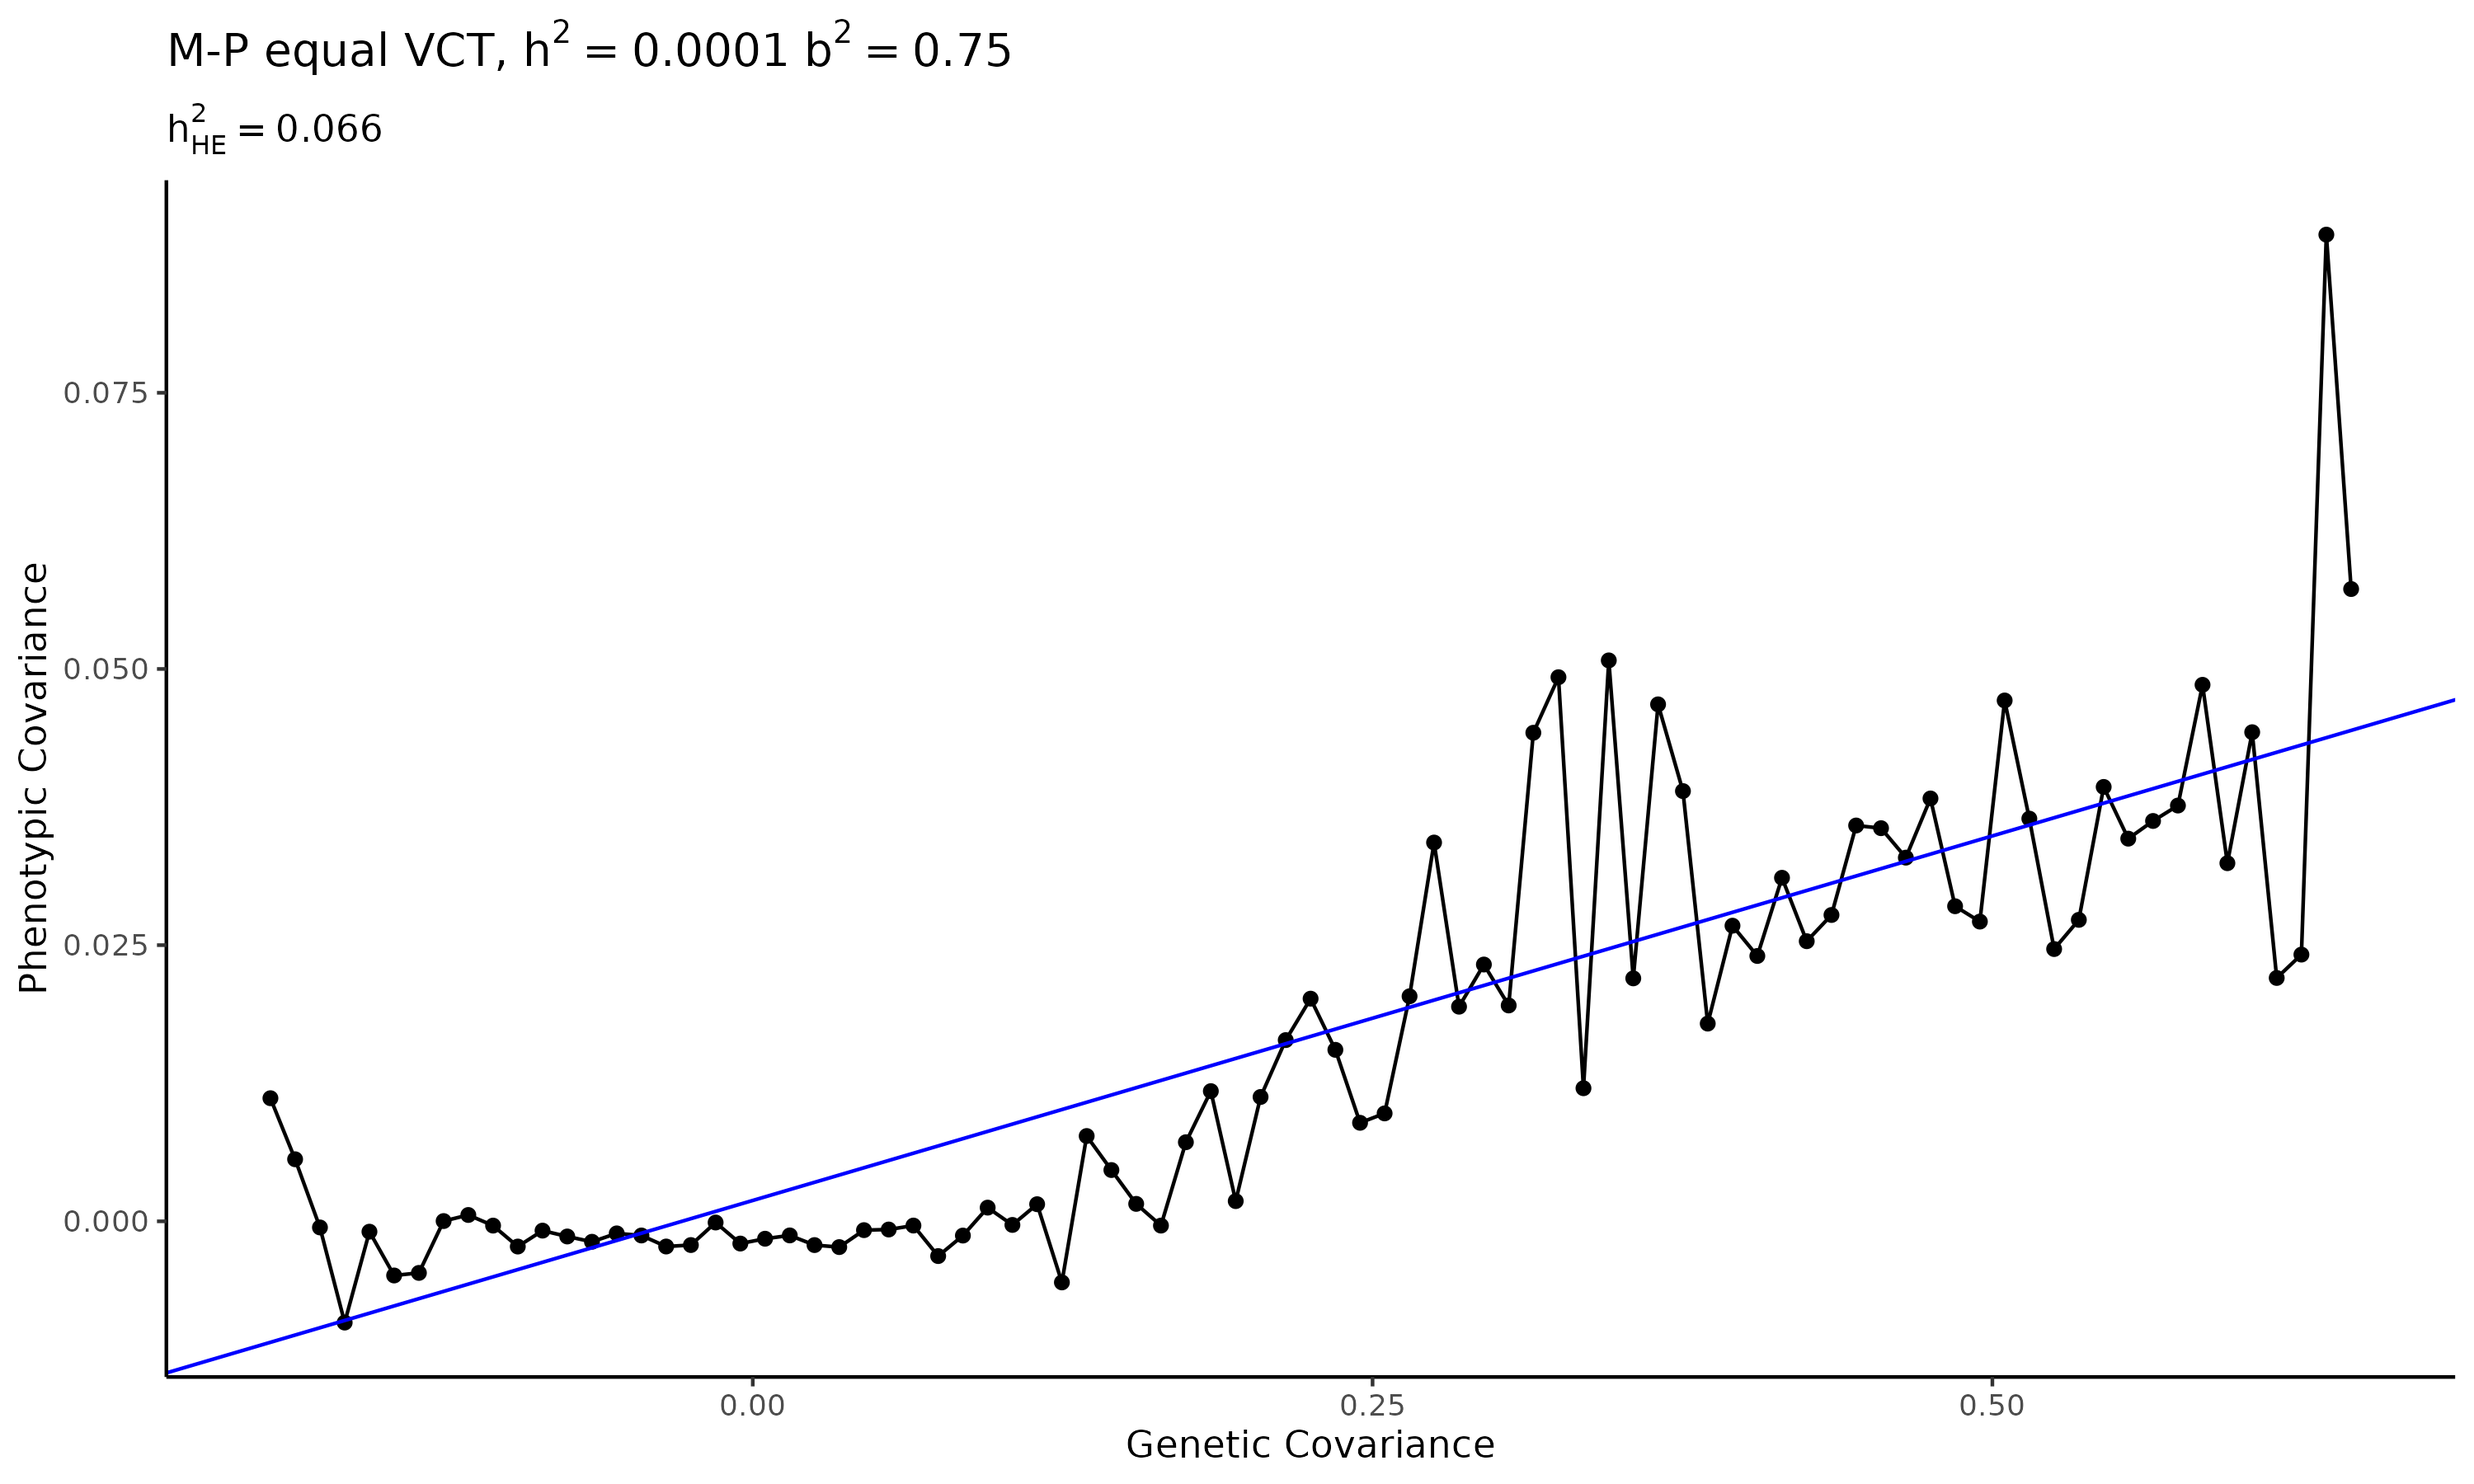
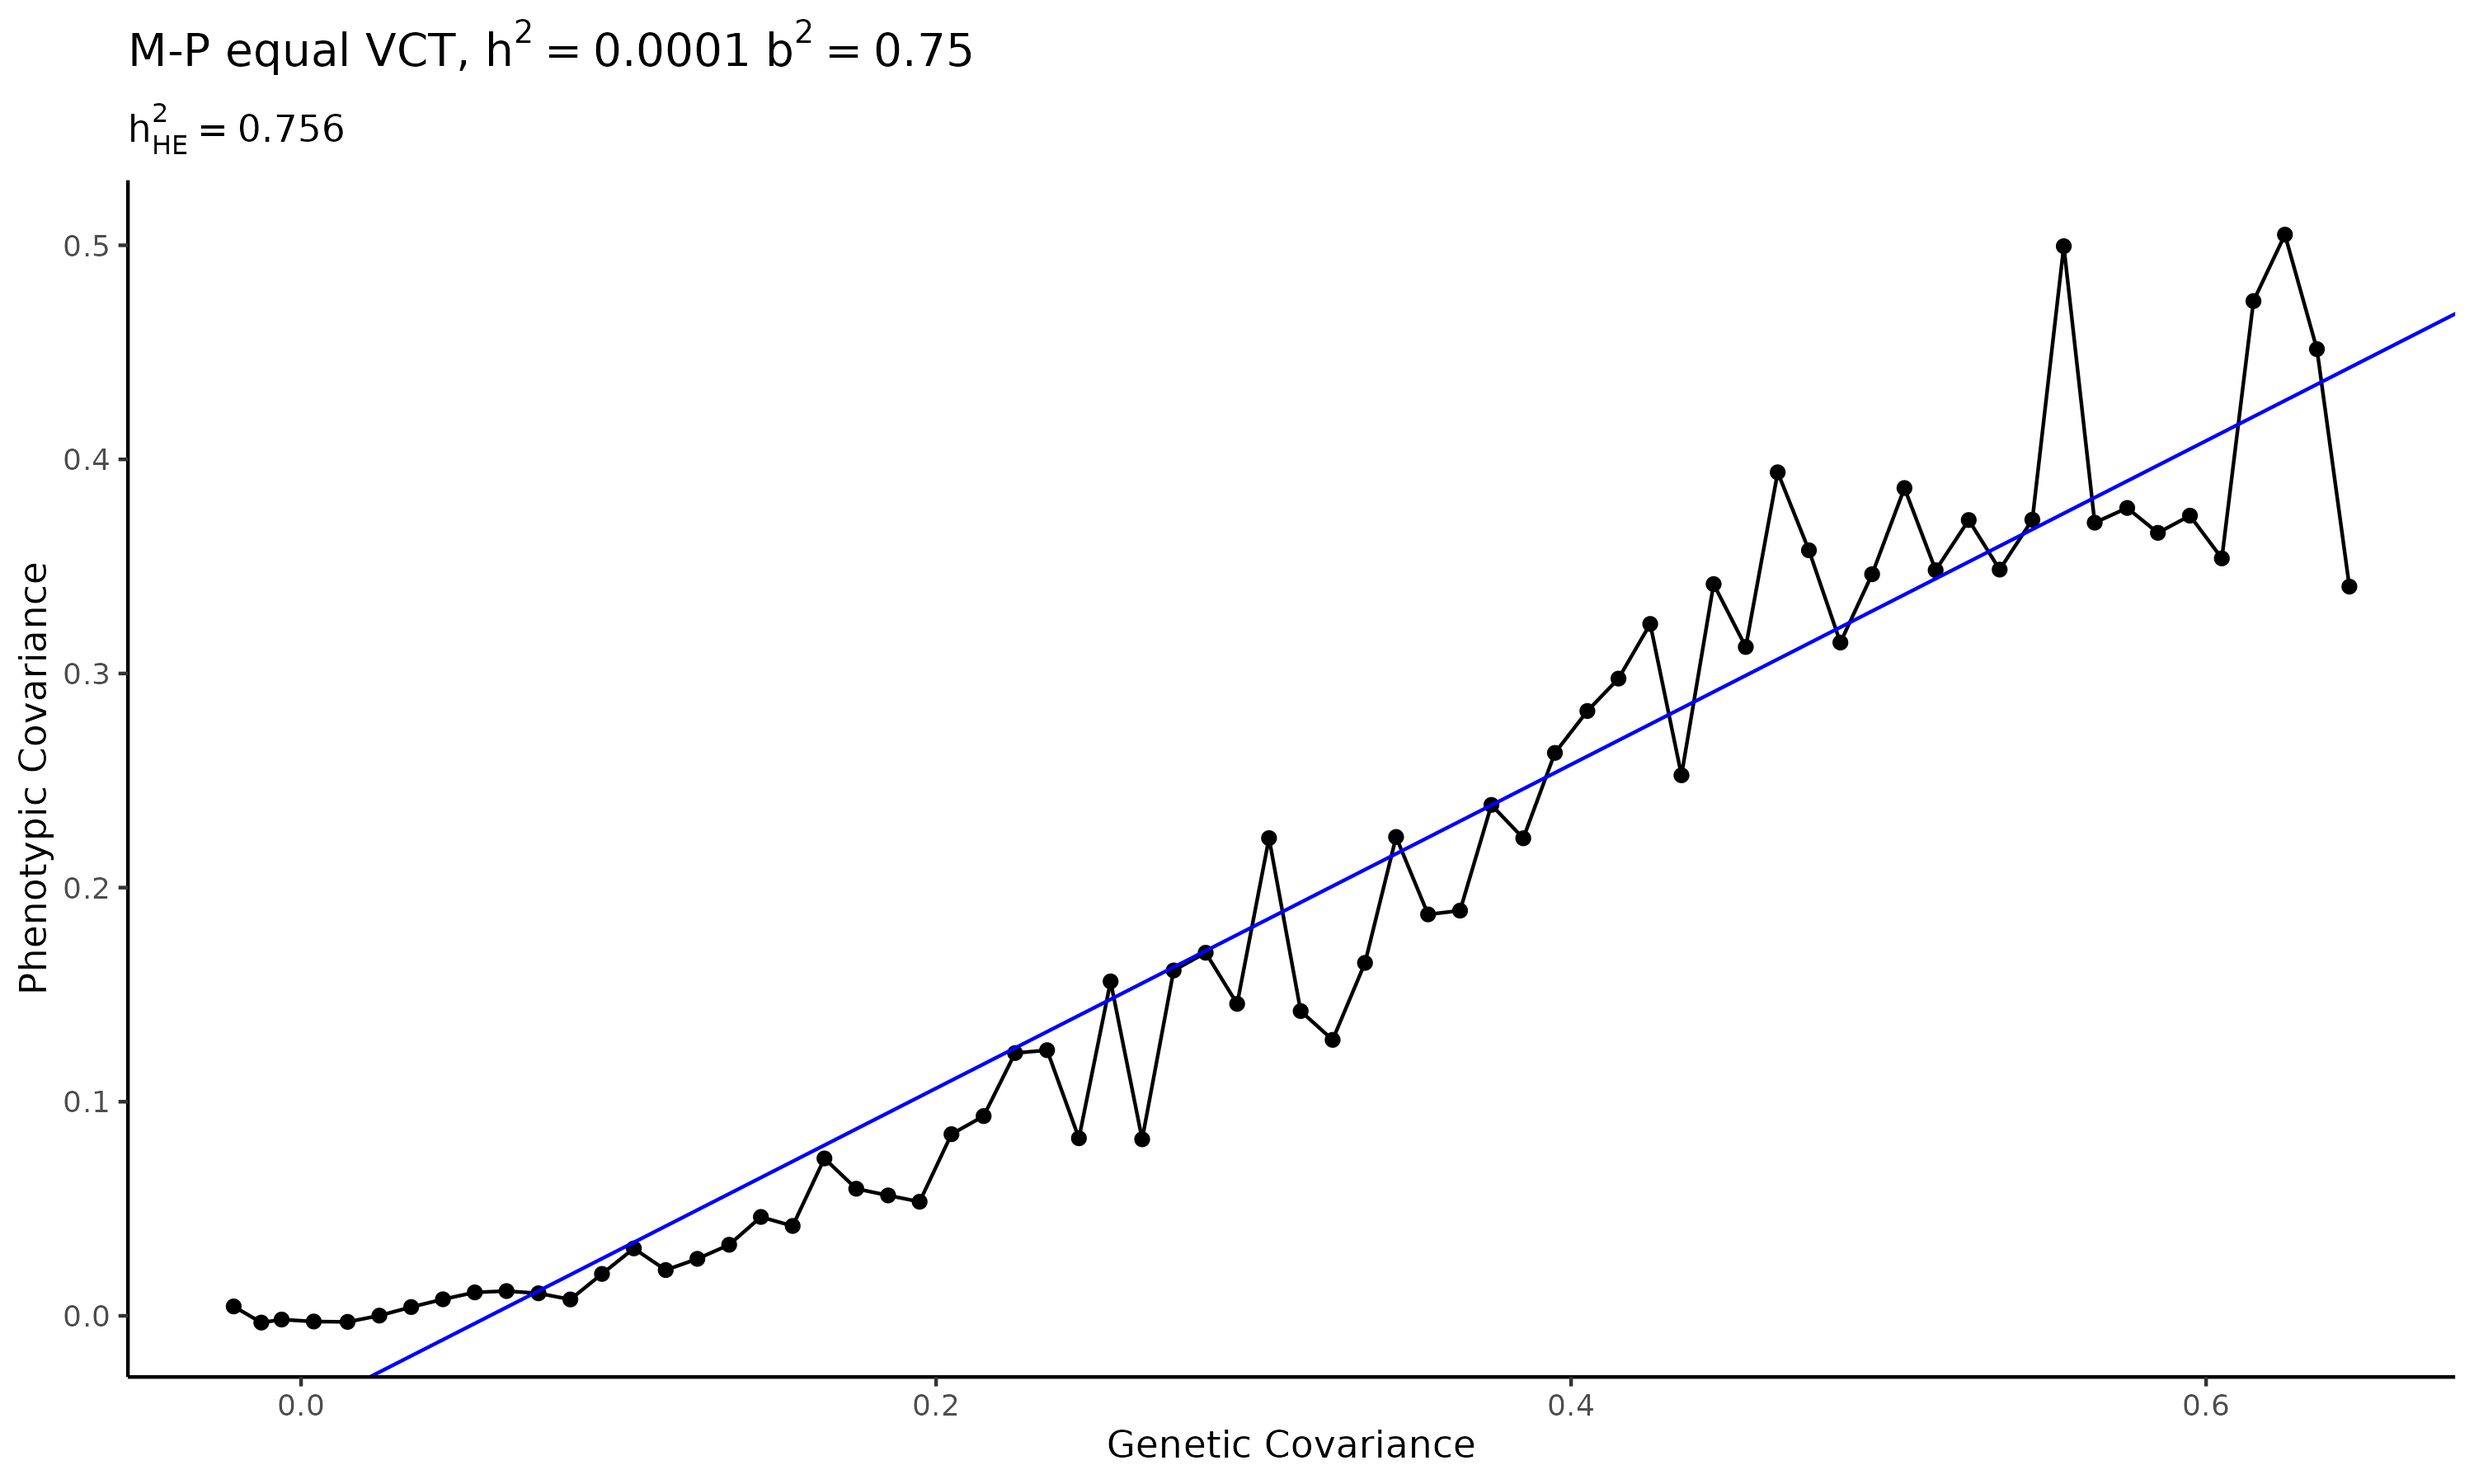
add overlay plot and massively increase # of variants

diff --git a/scripts/sim_vct.py b/scripts/sim_vct.py
@@ -31,6 +31,8 @@ m_variants = int(snakemake.params['m_variants'])
 h2=float(snakemake.wildcards['h2'])
 b2=float(snakemake.wildcards['b2'])
 
+chrom_count = int(snakemake.params['chrom_count'])
+
 print(f"n_indivs={n_indivs}, n_causal={n_causal}, m_variants={m_variants}, h2={h2}, b2={b2}, rep/seed={int(snakemake.wildcards['rep'])}")
 
 founders, recomb = build_minimal_founders(
@@ -38,7 +40,7 @@ founders, recomb = build_minimal_founders(
     m_variants=m_variants,
     min_af=0.1,
     max_af=0.5,
-    chrom=1
+    chrom=2
 )
 
 def additive_effects_freq(founder_haplotypes, n_causal = None, w = 1, h2 = 0):
